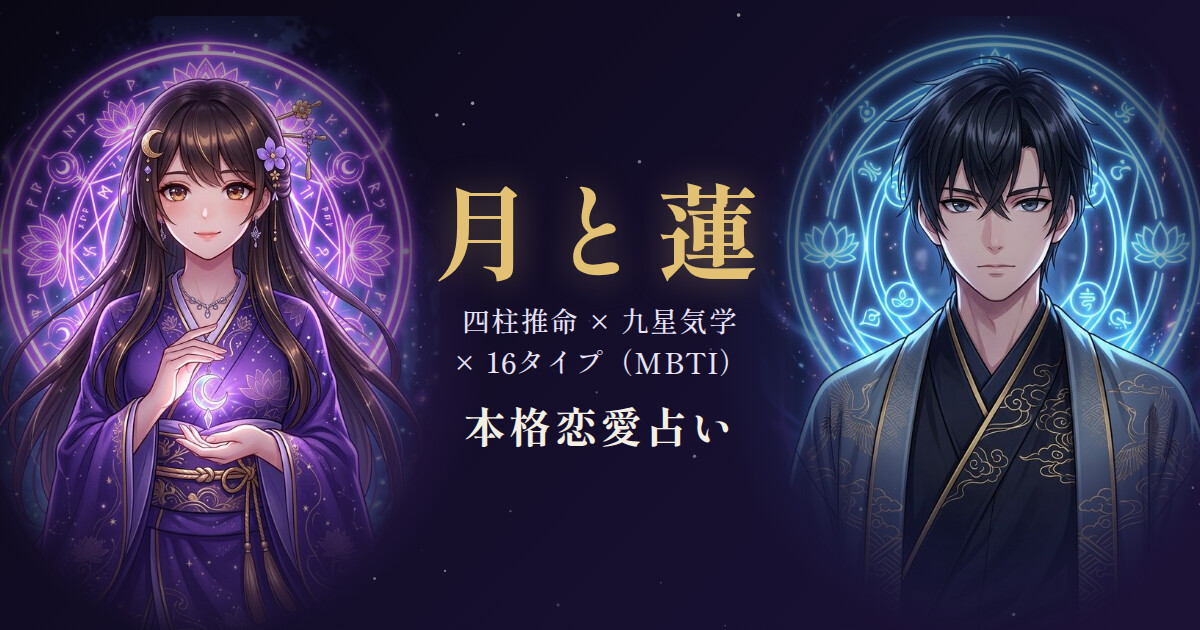
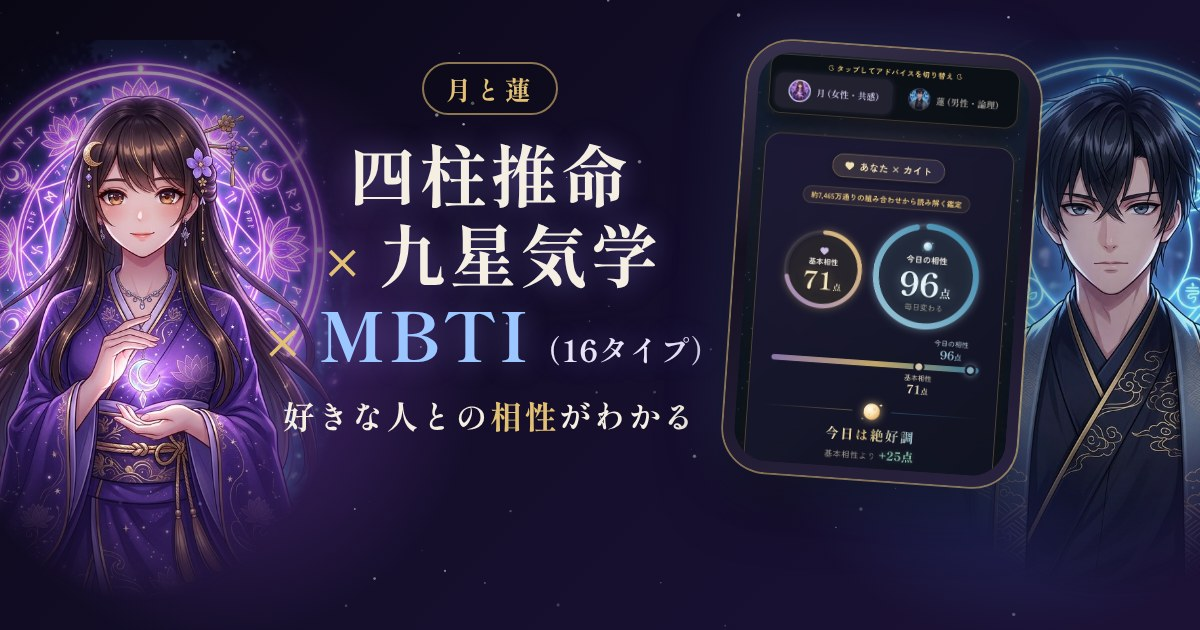
トップの共有画像（OGP）を作り直し：占いの方式を大きく・アプリ画面入り (#262)
* feat(ogp): トップの共有画像を作り直し（四柱推命×九星気学×MBTIを大きく、アプリ画面入り）

- 「月と蓮」は小さなバッジに、占いの方式を大きな見出しに
- 右側に鑑定結果のスマホ画面と月・蓮
- X/LINEの古い画像のキャッシュを避けるため og:image に ?v=20261031
- 元データ: docs/x-profile/ogp/ogp-top.html

Claude-Session: https://claude.ai/code/session_019582yAofSdWtuUckRsQ9nP

* feat(ogp): トップの共有画像をA案（月｜文字｜スマホ｜蓮）に差し替え

Claude-Session: https://claude.ai/code/session_019582yAofSdWtuUckRsQ9nP

---------

diff --git a/docs/x-profile/ogp/ogp-top.html b/docs/x-profile/ogp/ogp-top.html
@@ -1,0 +1,39 @@
+<!doctype html><meta charset="utf-8"><!-- トップのOGP（2026-11-01 A案）。app-screen.png はアプリの鑑定結果画面（390幅×3倍）を切り抜いたもの。Playwrightで1200×630を撮って public/ogp-image.jpg に -->
+<style>
+@font-face{font-family:'SM';font-weight:700;src:url('../../../scripts/x/assets/ShipporiMincho-Bold.ttf')}
+html,body{margin:0;width:1200px;height:630px;overflow:hidden;background:#0a0714}
+.o{position:relative;width:1200px;height:630px;font-family:'SM',serif;color:#f4efe2;overflow:hidden;
+ background:radial-gradient(420px 460px at 18% 55%,rgba(168,85,247,.38),transparent 65%),
+            radial-gradient(420px 460px at 85% 55%,rgba(59,130,246,.32),transparent 65%),
+            linear-gradient(135deg,#0a0714 0%,#150f2c 55%,#1c1236 100%)}
+svg.st{position:absolute;inset:0}
+.c{position:absolute;-webkit-mask-image:radial-gradient(ellipse 52% 54% at 50% 46%,#000 55%,transparent 100%)}
+.c img{width:100%;height:100%;display:block}
+.phone{position:absolute;width:272px;padding:11px;border-radius:44px;background:linear-gradient(160deg,#3a3350,#151020 40%,#2a2340);
+ box-shadow:0 0 0 2px rgba(226,192,116,.55),0 24px 60px rgba(0,0,0,.6),0 0 60px rgba(120,160,255,.25)}
+.phone img{width:272px;display:block;border-radius:34px}
+.badge{display:inline-block;font-size:26px;letter-spacing:.14em;color:#e2c074;border:2px solid rgba(226,192,116,.6);border-radius:999px;padding:6px 22px;background:rgba(10,10,20,.45)}
+.big{font-size:68px;line-height:1.18;letter-spacing:.04em;text-shadow:0 0 28px rgba(160,140,255,.45)}
+.big .x{color:#e2c074;font-size:52px;margin-right:10px}
+.big .m{color:#9cc6ff}
+.big small{font-size:30px;color:#e8e2f7;letter-spacing:.02em}
+.sub{font-size:32px;letter-spacing:.08em;color:#f4efe2}
+.sub b{color:#e2c074}
+</style>
+<style>
+.tsuki{left:-70px;top:40px;width:420px;height:562px}
+.ren{left:900px;top:40px;width:420px;height:562px;opacity:.95}
+.t{position:absolute;left:250px;top:62px;width:480px;text-align:center}
+.t .big{margin-top:18px}.t .sub{margin-top:18px}
+.phone{left:735px;top:48px;transform:rotate(4deg)}
+</style>
+<div class="o"><svg class="st" width="1200" height="630" id="st"></svg>
+<div class="c tsuki"><img src="tsuki.jpg"></div>
+<div class="c ren"><img src="ren.jpg"></div>
+<div class="t">
+ <div class="badge">月と蓮</div>
+ <div class="big">四柱推命<br><span class="x">×</span>九星気学<br><span class="x">×</span><span class="m">MBTI</span><small>（16タイプ）</small></div>
+ <div class="sub">好きな人との<b>相性</b>がわかる</div>
+</div>
+<div class="phone"><img src="app-screen.png"></div>
+</div><script>let s=11,r=()=>(s=(s*16807)%2147483647)/2147483647,o="";for(let i=0;i<70;i++){const x=r()*1200,y=r()*630,z=r()*1.5+.4;o+=`<circle cx="${x.toFixed(1)}" cy="${y.toFixed(1)}" r="${z.toFixed(1)}" fill="#fff" opacity="${(r()*.5+.15).toFixed(2)}"/>`}document.getElementById("st").innerHTML=o;</script>

diff --git a/index.html b/index.html
@@ -23,7 +23,7 @@
     <meta property="og:description" content="四柱推命・九星気学・16タイプ（MBTI）約7,465万通りのマトリクスで片思い・復縁・好きな人との本音を徹底解析。本日の相性バイオリズムと心を掴むLINE吉時間を今すぐ無料で本格鑑定。" />
     <meta property="og:type" content="website" />
     <meta property="og:url" content="https://www.tsuki-to-ren.com/" />
-    <meta property="og:image" content="https://www.tsuki-to-ren.com/ogp-image.jpg" />
+    <meta property="og:image" content="https://www.tsuki-to-ren.com/ogp-image.jpg?v=20261101" />
     <meta property="og:image:width" content="1200" />
     <meta property="og:image:height" content="630" />
     <meta property="og:site_name" content="月と蓮" />
@@ -33,7 +33,7 @@
     <meta name="twitter:card" content="summary_large_image" />
     <meta name="twitter:title" content="【公式】月と蓮 | 四柱推命×九星気学×16タイプ本格恋愛相性診断【無料】" />
     <meta name="twitter:description" content="片思い・復縁・好きな人との相性を四柱推命と16タイプで無料診断。今LINEを送るべき吉時間とお相手のトリセツを解き明かします。" />
-    <meta name="twitter:image" content="https://www.tsuki-to-ren.com/ogp-image.jpg" />
+    <meta name="twitter:image" content="https://www.tsuki-to-ren.com/ogp-image.jpg?v=20261101" />
 
     <!-- Google Structured Data (JSON-LD) for Search Engine Rich Snippets & Official Site Name -->
     <script type="application/ld+json">
